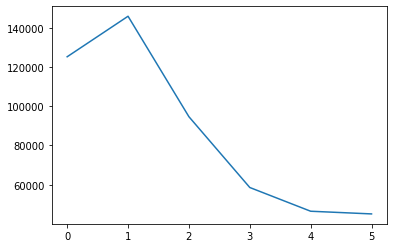
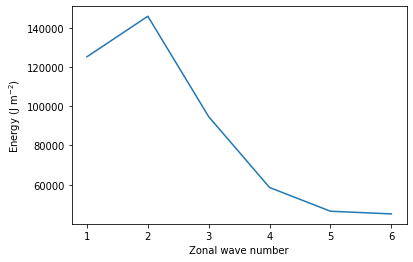
doc fix

Changed region(s): [[0.0, 0.0, 1.0, 0.9879]]

diff --git a/doc/test.m b/doc/test.m
@@ -51,19 +51,19 @@ data_i1=struct;
 data_i1.lon=lon;
 data_i1.lat=lat;
 data_i1.P=P;
-data_i1.v=...
+data_i1.v=load('I1.mat');
 
 data_i2=struct;
 data_i2.lon=lon;
 data_i2.lat=lat;
 data_i2.P=P;
-data_i2.v=...
+data_i2.v=load('I2.mat');
 
 data_j3=struct;
 data_j3.lon=lon;
 data_j3.lat=lat;
 data_j3.P=P;
-data_j3.v=...
+data_j3.v=load('J3.mat');
 
 data_i=struct;
 data_i.I1=data_i1;

diff --git a/README.md b/README.md
@@ -221,7 +221,7 @@ nmf3d.calcs.ncshow(vfileT,Lmax=50)
        out_vs_ws0True.nc
     
     :: Global Attributes:
-       date           2019-11-22 15:28:27.633799                        
+       date           2019-11-29 16:55:38.963091                        
        ws0            True                                              
        n_leg          57                                                
        platform       Linux-3.10.0-957.27.2.el7.x86_64-x86_64-with-cent+
@@ -340,7 +340,7 @@ hvf_dataT,hfileT=nmf3d.hough_functions.hvf(hk[:nk],M=6,nLR=8,nLG=6,dlat=6)
     saving out_hvf_M6_nLR8_nLG12_NEH5_dlat6linear_ws0True.nc
 
 
-Note that the baroclinic and barotropic (when hk[0] is infinite, i.e., ws0 is True in the computation of the vertical structure) modes are stored together. Example without barotropic mode:
+Example with ws0 False:
 
 
 ```python
@@ -391,7 +391,7 @@ nmf3d.calcs.ncshow(hfileF)
        out_hvf_M6_nLR8_nLG12_NEH5_dlat6linear_ws0False.nc
     
     :: Global Attributes:
-       date           2019-11-22 15:28:31.472624                                       
+       date           2019-11-29 16:55:42.752146                                       
        platform       Linux-3.10.0-957.27.2.el7.x86_64-x86_64-with-centos-7.6.1810-Core
        environment    python                                                           
        version        3.7.5 (default, Oct 25 2019, 15:51:11) [GCC 7.3.0]               
@@ -418,8 +418,7 @@ nmf3d.calcs.ncshow(hfileF)
 Vertical, Fourier and Hough transforms of:
 
  - zonal wind (u), meridional wind (v) and geopotential (z) perturbation (from the
-      reference  geopotential), used for the the 3-D spectrum of total energy
-      W_nlk
+      reference  geopotential), used for the 3-D spectrum of total energy
       
 
  - I1, I2 and J3, used for the 3-D spectrum of energy interactions (kinetic and available pontential energy)
@@ -471,7 +470,7 @@ data_v['v']=nc.variables['var132'][:][:,:,::-1,:].astype('d')
 nc.close()
 ```
 
-The geopotential is a bit more complex as the reference profile must be subtracted. The profile can be obtained following step 1. So let us do this first:
+For geopotential the reference profile must be subtracted. The profile can be obtained following step 1. So let us do this first:
 
 
 ```python
@@ -495,7 +494,7 @@ pl.plot(z_,zlev_,'.');
 ![png](doc/output_28_0.png)
 
 
-Now let us load the geopotential subtracting the reference. Note that some datasets provide not the geopotential but the geopotential height. In such case it must be divided by *g*.
+Now let us load the geopotential subtracting the reference. Note that some datasets provide not the geopotential but the geopotential height. In such cases it must be divided by *g*.
 
 
 ```python
@@ -578,7 +577,7 @@ nmf3d.calcs.ncshow(fsaveF)
        out_ws0_False_w_nlk.nc
     
     :: Global Attributes:
-       date           2019-11-22 15:29:22.847531                                       
+       date           2019-11-29 16:56:32.031238                                       
        platform       Linux-3.10.0-957.27.2.el7.x86_64-x86_64-with-centos-7.6.1810-Core
        environment    python                                                           
        version        3.7.5 (default, Oct 25 2019, 15:51:11) [GCC 7.3.0]               
@@ -639,7 +638,10 @@ for i in range(nk):
     En[i]=1/4*1e5*hk[i]*(w_nlk[i,1:]*np.conj(w_nlk[i,1:])).real
 
 v=En.mean(3).sum(2).sum(0)
-pl.plot(v);
+x=range(1,v.size+1)
+pl.plot(x,v)
+pl.xlabel('Zonal wave number')
+pl.ylabel('Energy (J m$^{-2}$)');
 ```
 
 
@@ -648,6 +650,8 @@ pl.plot(v);
 
 #### 5.2 3-D spectrum of energy interactions
 
+In thsi case, the user needs to calculate I1, I2 and J3. We provide here just an example, considering these terms weer previously computed and stored in the files I1.npz, I2.npz and J3.npz:
+
 
 ```python
 '''
@@ -655,12 +659,19 @@ data_i1={}
 data_i2={}
 data_j3={}
 
-P=...
-lon=...
-lat=...
-I1=...
-I2=...
-J3=...
+# assuming the coefficients were calculated and stored in the files
+# I1.npz, I2.npz and J3.npz:
+
+a=load('I1.npz')
+b=load('I2.npz')
+c=load('J3.npz')
+
+P=a['P']
+lon=a['lon']
+lat=a['lat']
+I1=a['I1']
+I2=b['I2']
+J3=c['J3']
 
 data_i1=dict(P=P,lon=lon,lat=lat,v=I1)
 data_i2=dict(P=P,lon=lon,lat=lat,v=I2)
@@ -735,19 +746,19 @@ data_i1=struct;
 data_i1.lon=lon;
 data_i1.lat=lat;
 data_i1.P=P;
-data_i1.v=...
+data_i1.v=load('I1.mat');
 
 data_i2=struct;
 data_i2.lon=lon;
 data_i2.lat=lat;
 data_i2.P=P;
-data_i2.v=...
+data_i2.v=load('I2.mat');
 
 data_j3=struct;
 data_j3.lon=lon;
 data_j3.lat=lat;
 data_j3.P=P;
-data_j3.v=...
+data_j3.v=load('J3.mat');
 
 data_i=struct;
 data_i.I1=data_i1;
